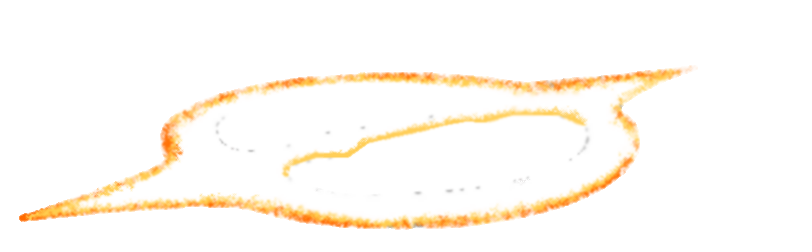
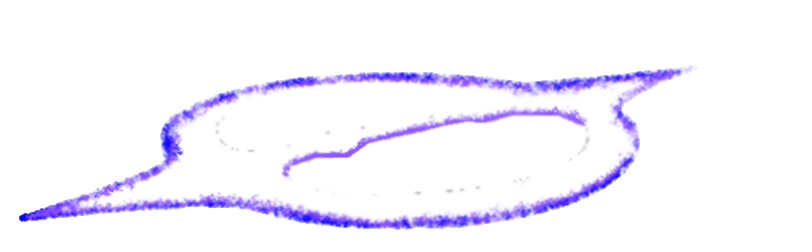
More shenanigans

Changed region(s): [[0.0, 0.25, 0.8621, 0.9167]]

diff --git a/src/data/weapons/onhit/AEG_ThunderBoltOnHitEffect.java b/src/data/weapons/onhit/AEG_ThunderBoltOnHitEffect.java
@@ -14,29 +14,34 @@ public class AEG_ThunderBoltOnHitEffect implements BeamEffectPlugin {
     private static final float DAMAGE_RETENTION_PER_CHAIN = .85f;
     private static final int MAXIMUM_CHAINS = 5;
     private final IntervalUtil fireInterval = new IntervalUtil(0.1f, 0.1f);
+    private final IntervalUtil beamLightningInterval = new IntervalUtil(1f, 2f);
 
     @Override
     public void advance(float amount, CombatEngineAPI engine, BeamAPI beam) {
-        // Handle the lightning charging effect
-        if (beam.getWeapon().getChargeLevel() > 0) {
-            for (int i = 0; i < beam.getWeapon().getSpec().getHardpointAngleOffsets().size(); i++) {
-                Vector2f point = beam.getWeapon().getFirePoint(i);
-                engine.addHitParticle(point, new Vector2f(), 10f, beam.getWeapon().getChargeLevel(), 0.1f, CORE_COLOR);
+        // Handle the beam effect
+        if (beam.getBrightness() >= 1f) {
+            fireInterval.advance(amount);
+            if (fireInterval.intervalElapsed()) {
+                createChainLightning(beam, beam.getDamageTarget(), engine);
             }
-        }
 
-        CombatEntityAPI target = beam.getDamageTarget();
-        if (target instanceof ShipAPI && (target.getShield() == null || !target.getShield().isWithinArc(beam.getTo()))) {
-            if (beam.getBrightness() >= 1f) {
-                fireInterval.advance(amount);
-                if (fireInterval.intervalElapsed()) {
-                    createChainLightning(beam, target, engine);
+            // Add small lightning arcs traveling up the beam every 1-2 seconds
+            beamLightningInterval.advance(amount);
+            if (beamLightningInterval.intervalElapsed()) {
+                Vector2f from = beam.getFrom();
+                Vector2f to = beam.getTo();
+                float distance = getDistance(from, to);
+                for (float i = 0; i < distance; i += 10 + Math.random() * 5) {
+                    Vector2f point = new Vector2f(from.x + (to.x - from.x) * (i / distance), from.y + (to.y - from.y) * (i / distance));
+                    engine.spawnEmpArcVisual(point, null, new Vector2f(point.x + (float) (Math.random() * 10 - 5), point.y + (float) (Math.random() * 10 - 5)), null, 5f, CORE_COLOR, FRINGE_COLOR);
                 }
             }
         }
     }
 
     private void createChainLightning(BeamAPI beam, CombatEntityAPI initialTarget, CombatEngineAPI engine) {
+        if (initialTarget == null) return;
+
         CombatEntityAPI currentTarget = initialTarget;
         Vector2f source = beam.getTo();
         float range = INITIAL_CHAIN_RANGE;

diff --git a/src/data/weapons/scripts/AEG_ThunderbreakerHover.java b/src/data/weapons/scripts/AEG_ThunderbreakerHover.java
@@ -4,6 +4,8 @@ import com.fs.starfarer.api.combat.CombatEngineAPI;
 import com.fs.starfarer.api.combat.EveryFrameWeaponEffectPlugin;
 import com.fs.starfarer.api.combat.WeaponAPI;
 import org.lwjgl.util.vector.Vector2f;
+import java.awt.Color;
+import com.fs.starfarer.api.util.IntervalUtil;
 
 public class AEG_ThunderbreakerHover implements EveryFrameWeaponEffectPlugin {
 
@@ -13,6 +15,9 @@ public class AEG_ThunderbreakerHover implements EveryFrameWeaponEffectPlugin {
     private static final float HOVER_AMPLITUDE = 1f; // Adjust as needed for up-down hover
     private static final float HOVER_FREQUENCY = 0.5f; // Adjust as needed for up-down hover
     private Vector2f originalLocation = null;
+    private final IntervalUtil empInterval = new IntervalUtil(2f, 3f);
+    private static final Color CORE_COLOR = new Color(255, 255, 255, 255);
+    private static final Color FRINGE_COLOR = new Color(105, 105, 255, 255);
 
     @Override
     public void advance(float amount, CombatEngineAPI engine, WeaponAPI weapon) {
@@ -39,5 +44,15 @@ public class AEG_ThunderbreakerHover implements EveryFrameWeaponEffectPlugin {
 
         Vector2f newLocation = new Vector2f(newX, newY);
         weapon.getSlot().getLocation().set(newLocation);
+
+        // Handle the passive lightning charging effect
+        empInterval.advance(amount);
+        if (empInterval.intervalElapsed()) {
+            for (int i = 0; i < weapon.getSpec().getHardpointAngleOffsets().size(); i++) {
+                Vector2f point = weapon.getFirePoint(i);
+                Vector2f randomPoint = new Vector2f(point.x + (float) (Math.random() * 100 - 50), point.y + (float) (Math.random() * 100 - 50));
+                engine.spawnEmpArcVisual(randomPoint, null, point, null, 10f, CORE_COLOR, FRINGE_COLOR);
+            }
+        }
     }
 }
